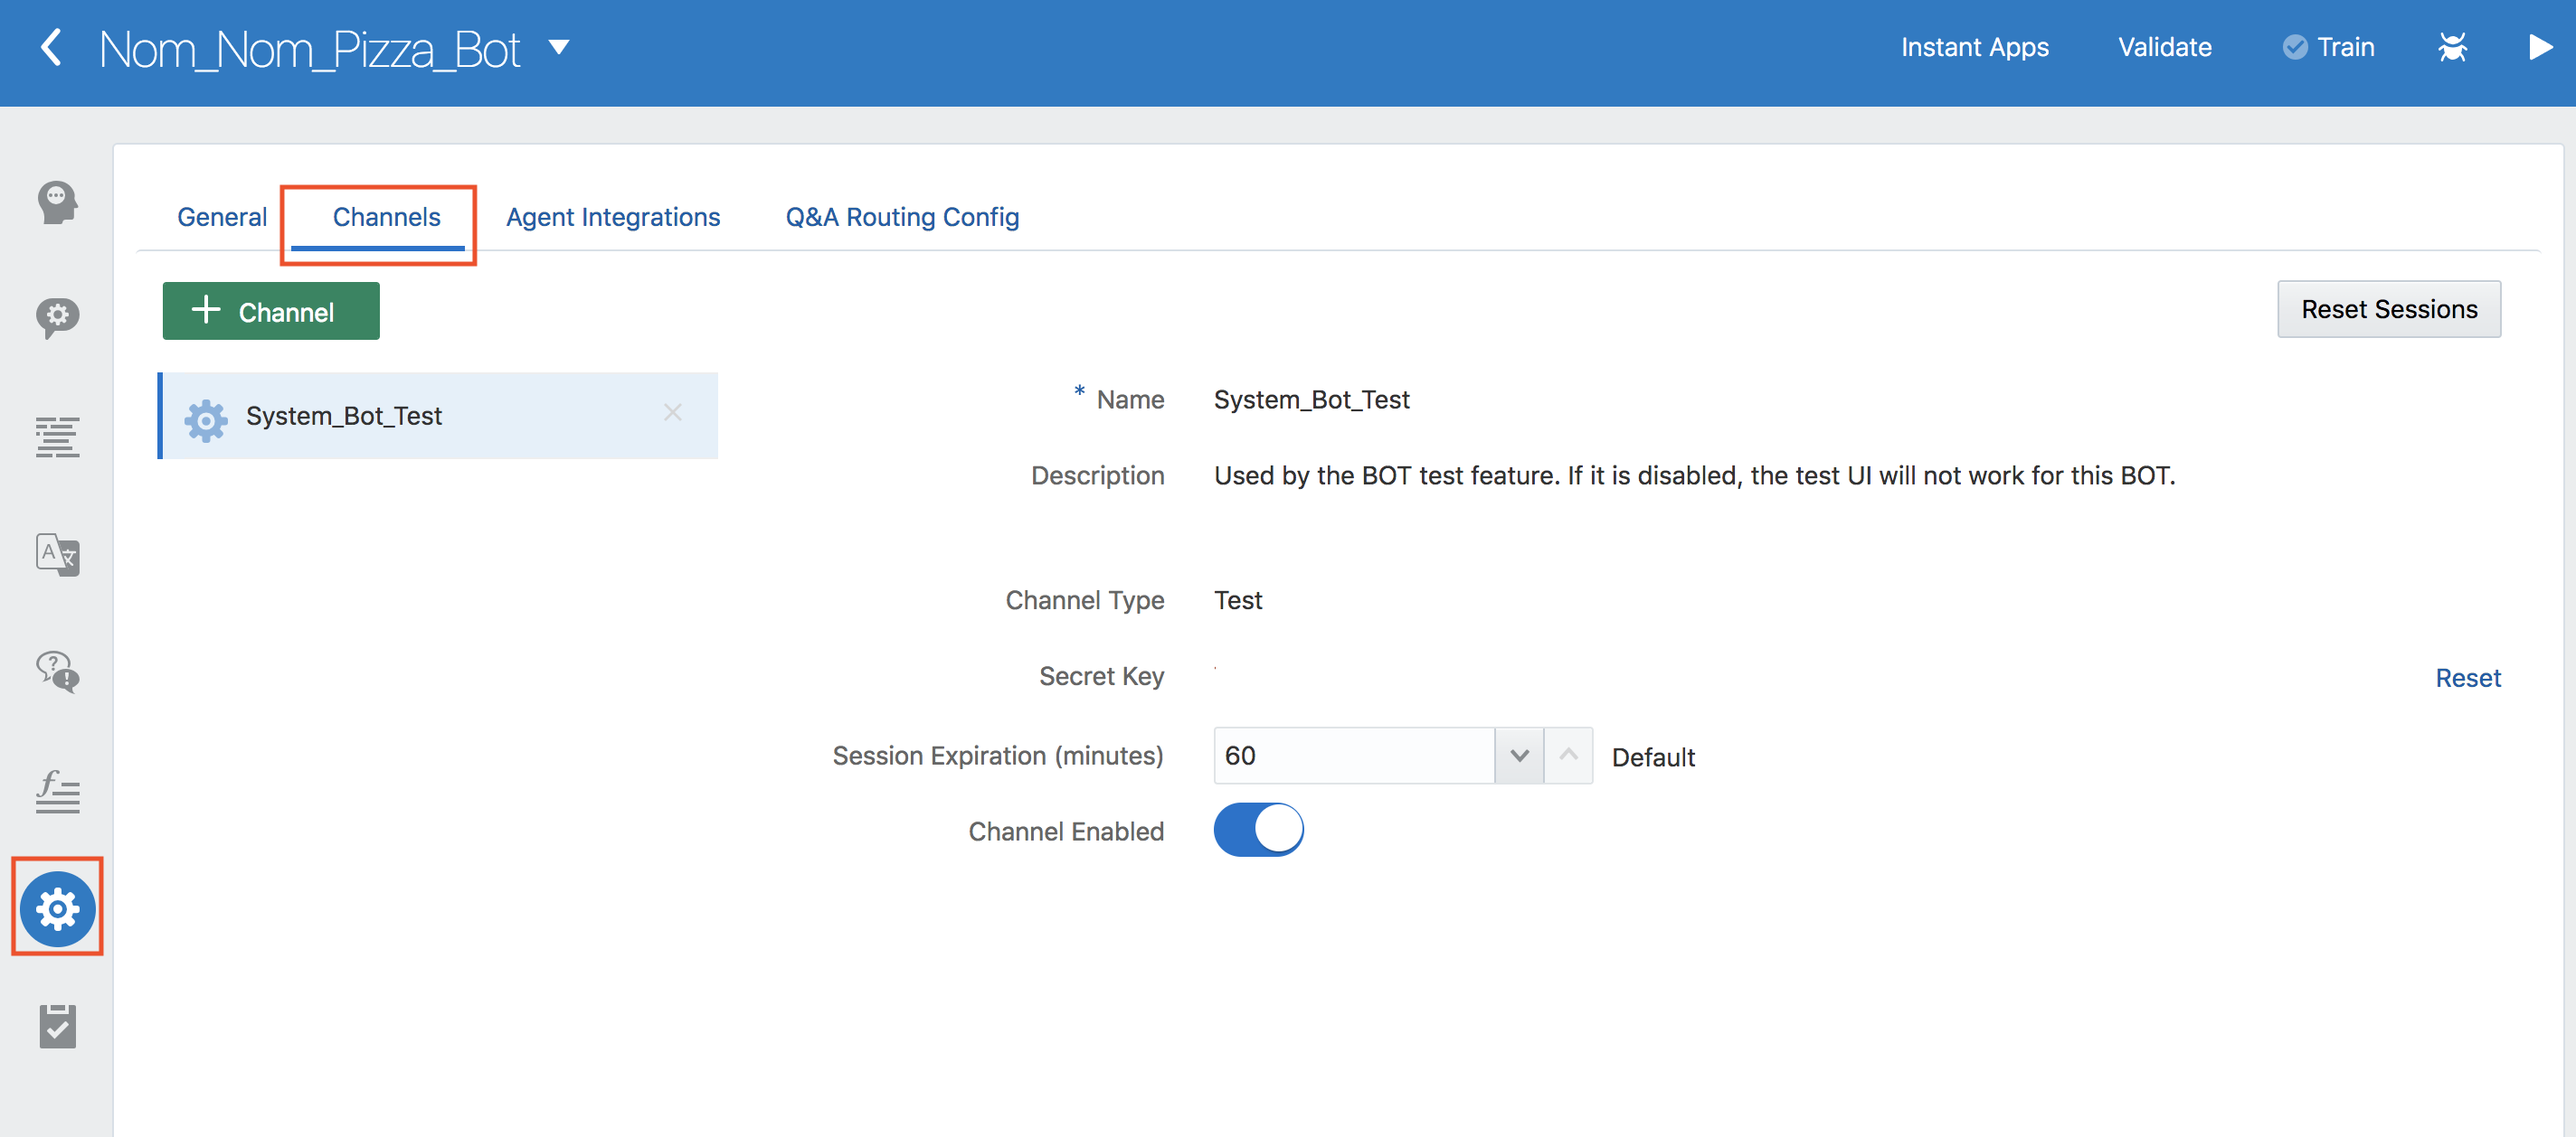
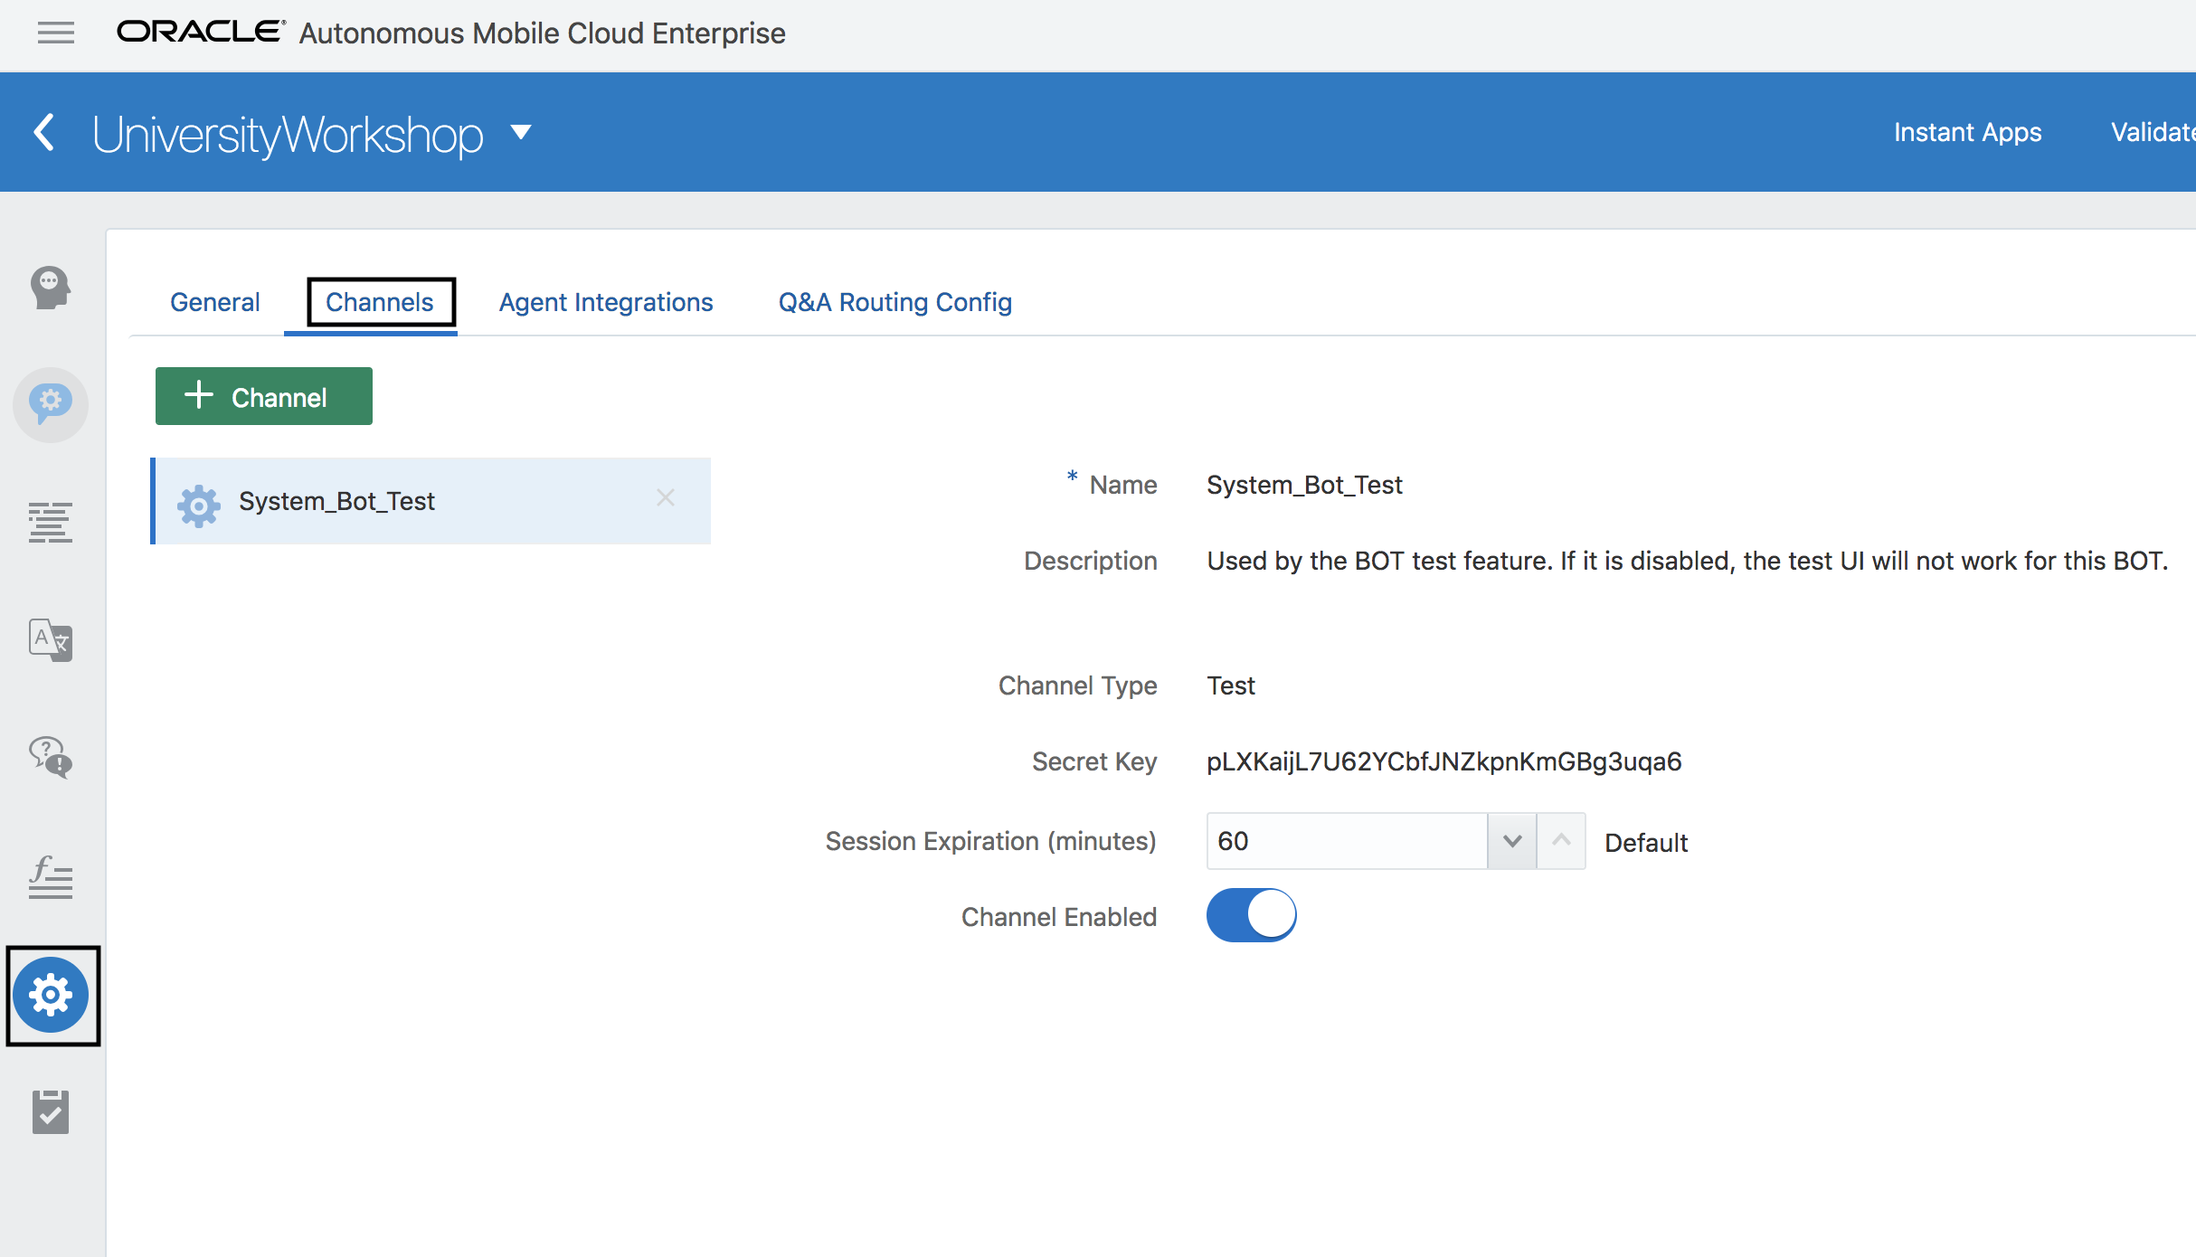
Modified Lab300 and added screenshots

diff --git a/Lab300.md b/Lab300.md
@@ -26,30 +26,30 @@ Bots aren’t apps that you download from an app marketplace. Instead, users acc
 
 - Enter the following information in the prompt:
     - Name: `Web`
-    - Description: `Web channel for Nom Nom Pizza website`
+    - Description: `Web channel for University of Illinois`
     - Channel Type: `Web`
     - Turn on **Channel Enabled**
 - Click on **Create**
 
 ![](./images/300/3.png)
 
-- Now you should see a web channel created. You should have your own App Id that we will use later.
+- Now you should see a web channel created. You should have your own App Id (hidden in the picture for security purposes) that we will use later.
 
 ![](./images/300/4.png)
 
 ### Step 2: Interact with Nom Nom Pizza Bot on Website
 - Open up a browser and navigate to: <a href="https://nomnompizza-aserecruitfy19.uscom-central-1.oraclecloud.com/" target="_blank">Nom Nom Pizza Website</a>
-- This is a website we have created for our fictional restaurant Nom Nom Pizza. Take a glance at the website. 
+- This is a website we have created for our generic university. Take a glance at the website. 
 
-![](./images/300/5.png)
+**Insert University Website**
 
 - Click on **Chat** button and enter in your App Id you received from creating a web channel.
 
-![](./images/300/6.png)
+**Insert University Website**
 
 - A chat window should automatically pop up on the side. Now, you can order pizza here! Go ahead and talk to it!
 
-![](./images/300/7.png)
+**Insert University Website with Chatbot**
 
 - In a real-world situation, instead of entering an App Id, you would have it somewhere in the web app and have the chat ready whenever a user gets into the website. 
 
